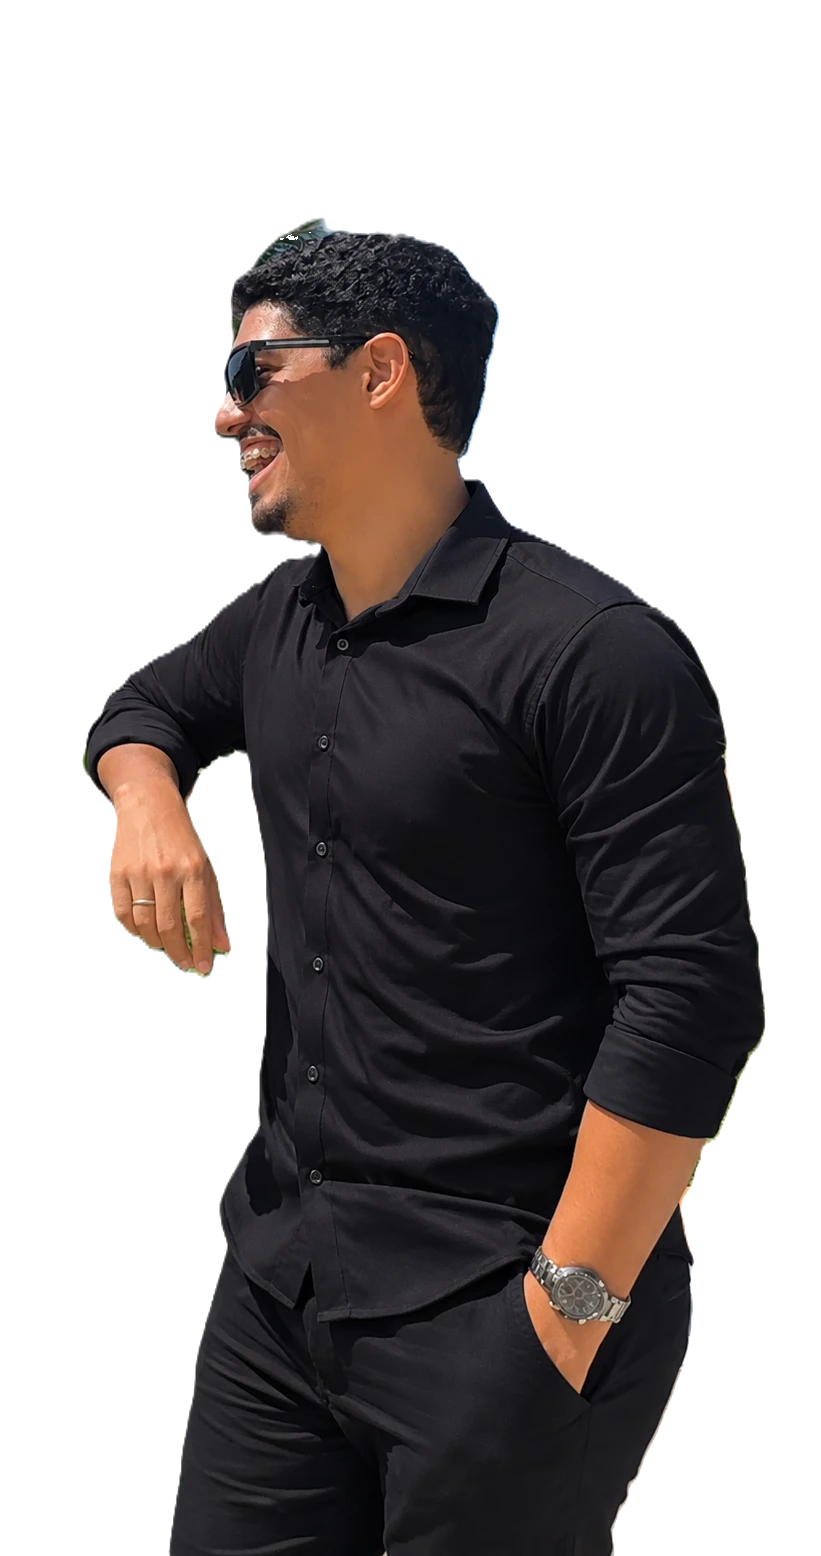
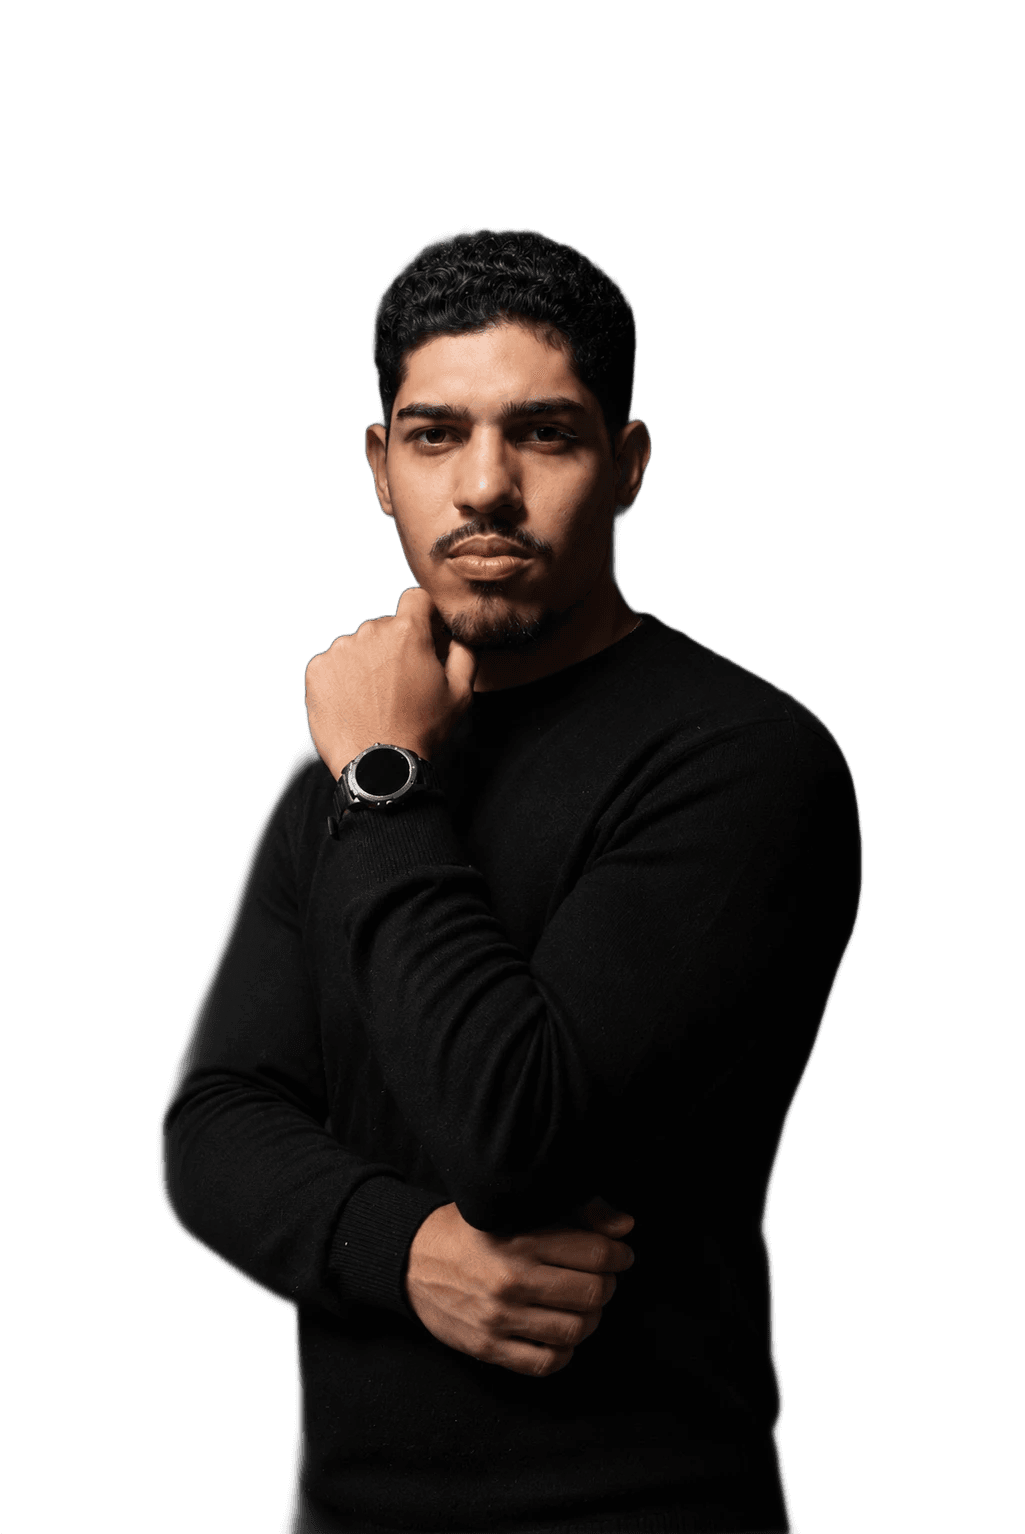
Foto nova do Emerson na seção Sobre

diff --git a/web/index.html b/web/index.html
@@ -532,7 +532,7 @@ section{position:relative;scroll-margin-top:80px}
         <div class="direct"><svg viewBox="0 0 24 24" fill="none" stroke="currentColor" stroke-width="1.8" aria-hidden="true"><circle cx="12" cy="8" r="4"/><path d="M4.5 20.5a7.5 7.5 0 0 1 15 0"/></svg><span>Você fala diretamente comigo, do primeiro contato até a entrega do seu site.</span></div>
         <a class="btn js-wa" data-msg="me" href="#" target="_blank" rel="noopener">Falar com o Emerson</a>
       </div>
-      <div class="panel__photo"><img src="img/emerson.png" width="821" height="1556" alt="Emerson, desenvolvedor web e fundador da MAREME" loading="lazy"></div>
+      <div class="panel__photo"><img src="img/emerson.png" width="1025" height="1534" alt="Emerson, desenvolvedor web e fundador da MAREME" loading="lazy"></div>
     </div>
   </div>
 </section>
